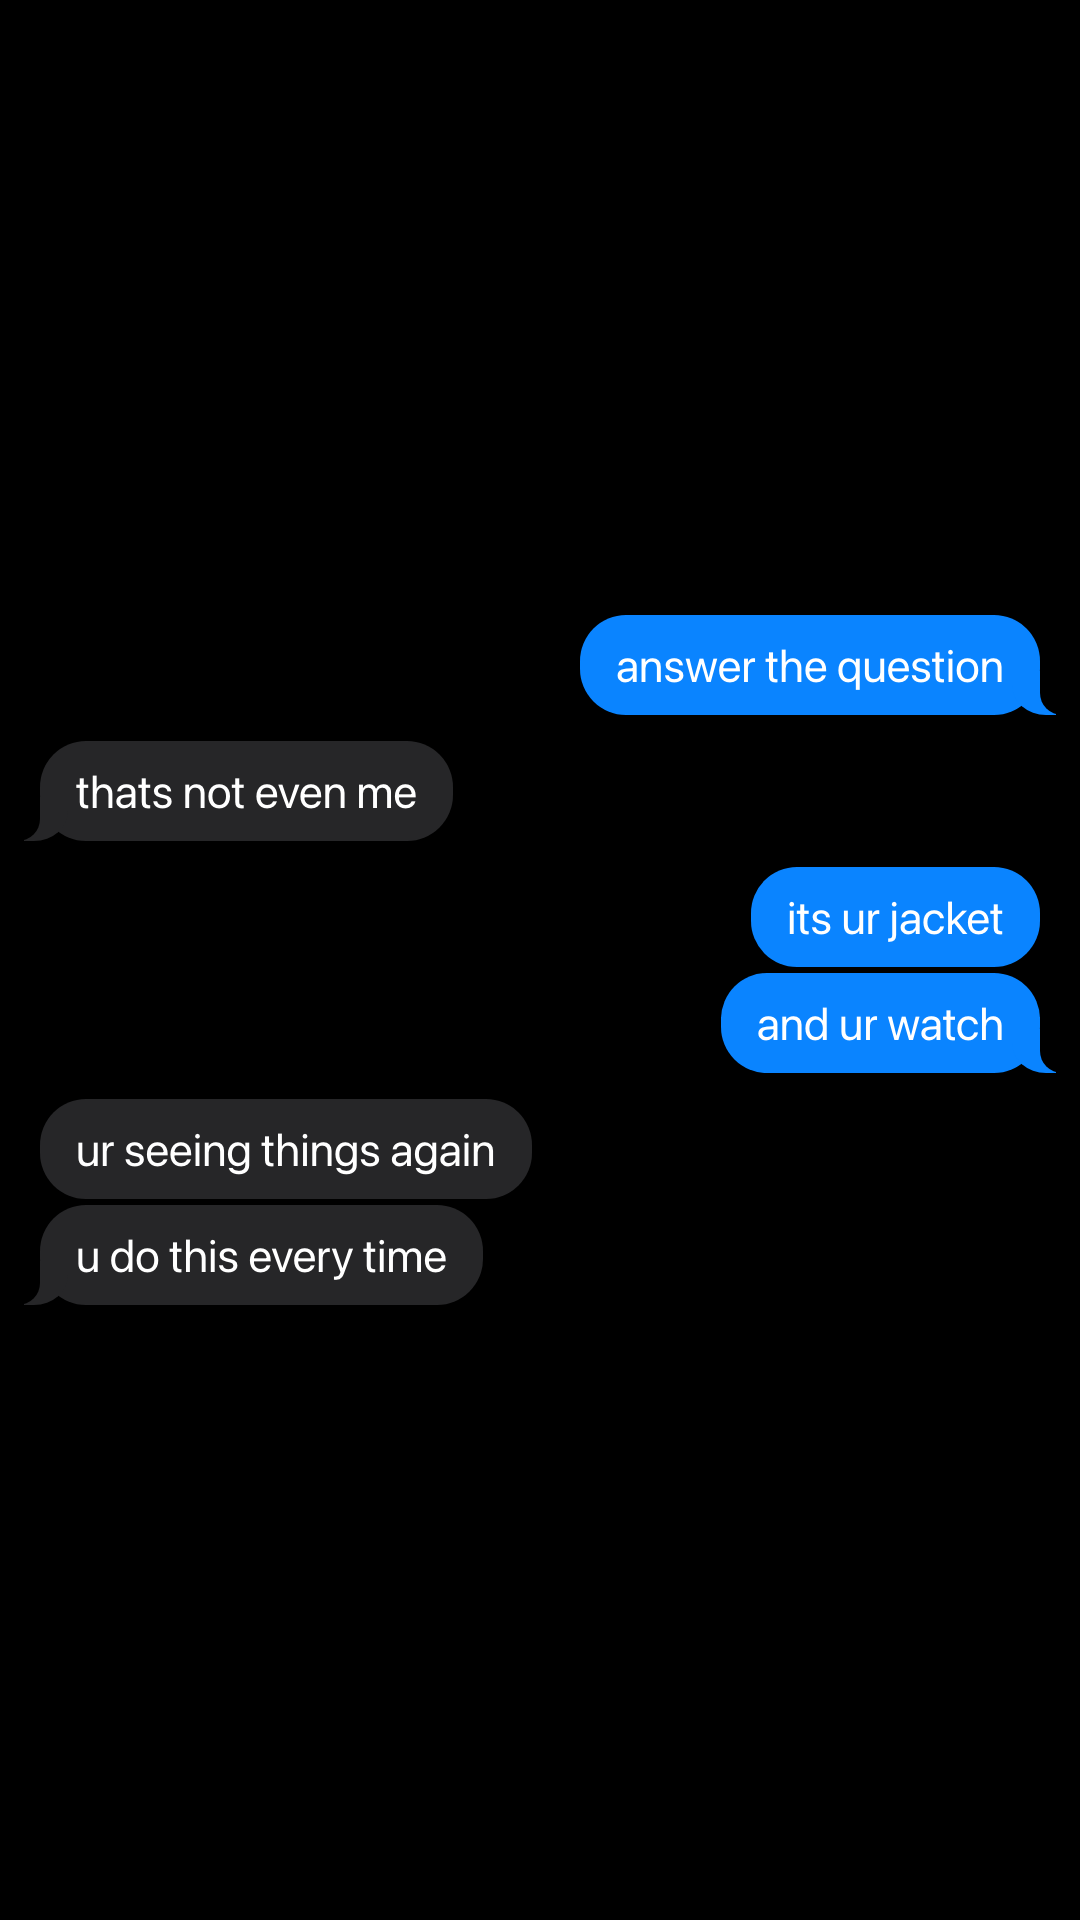
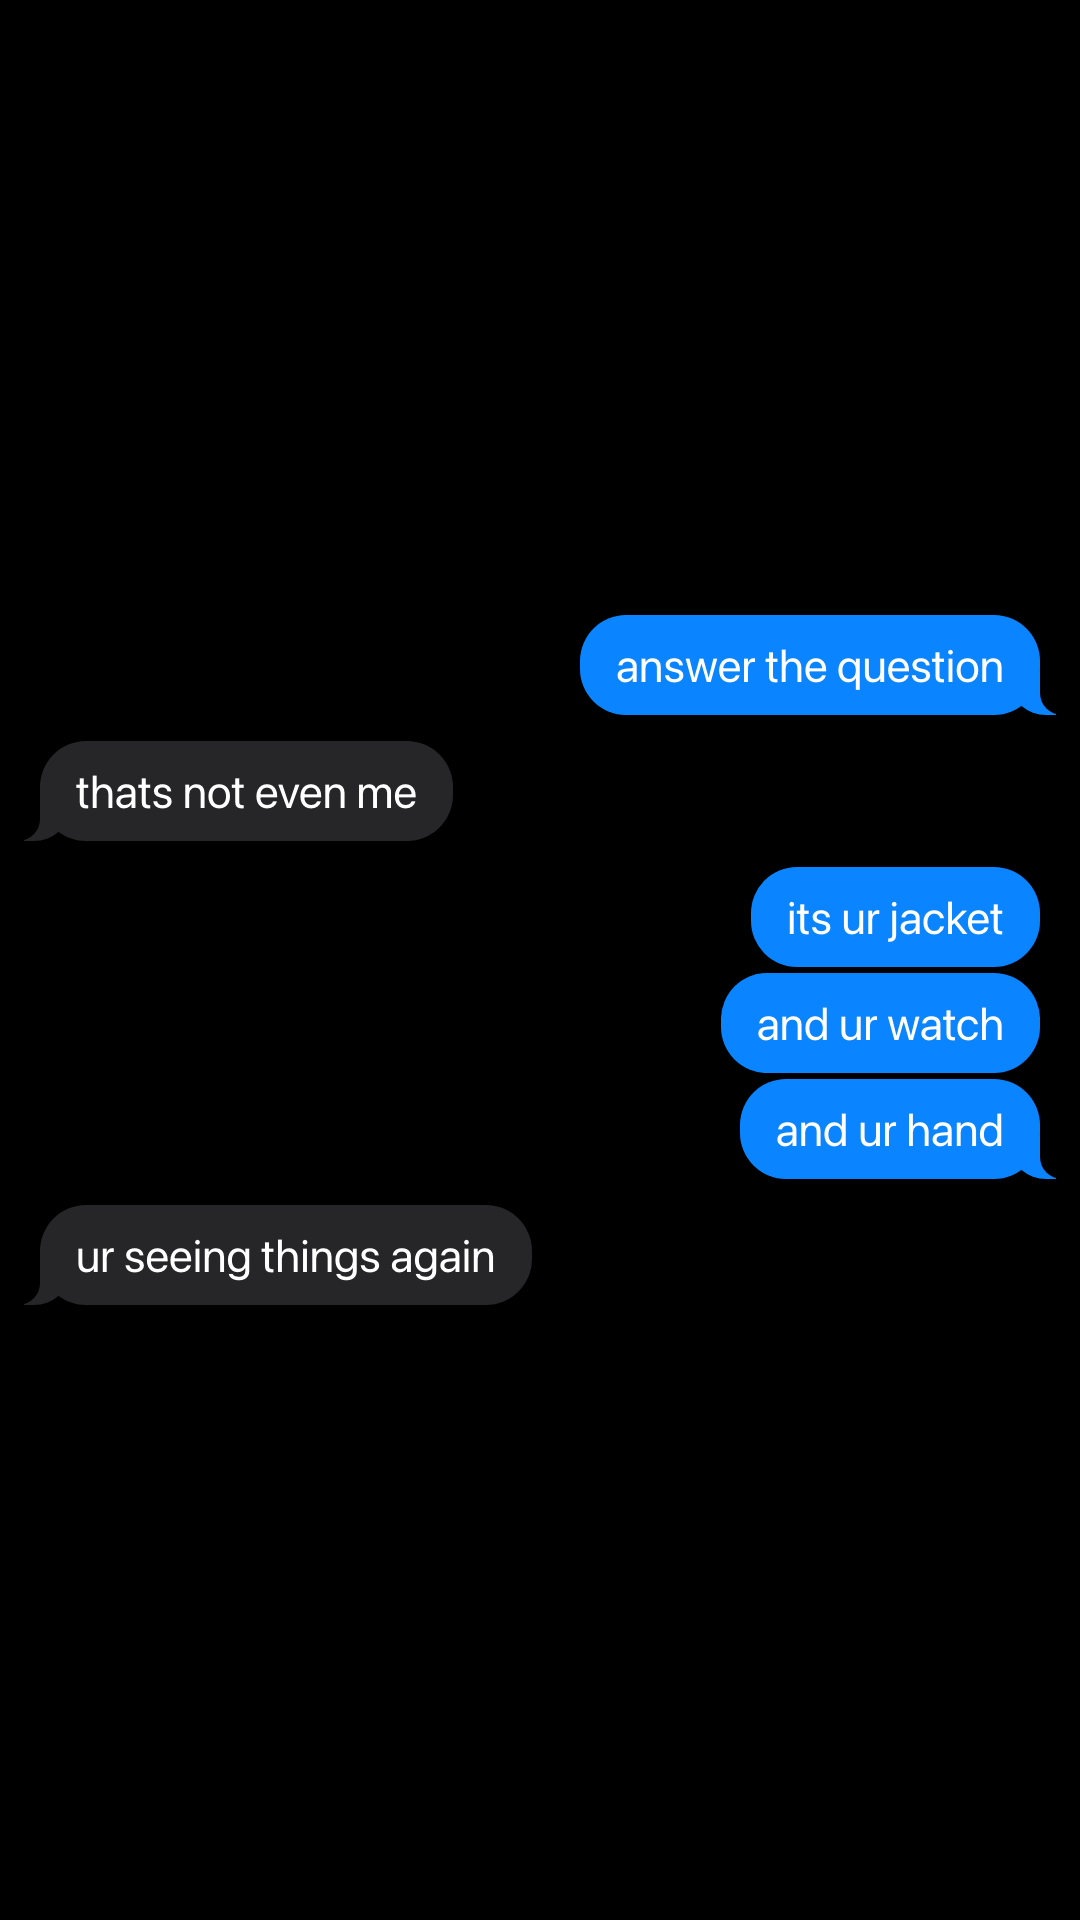
marketing: carousel 01 as 22 text screenshots
The whole story in iMessage: three lies, the blame flip, the isolation,
two days of silence, her apology hearted with no reply, the love bomb,
Lea's receipt, and her folding a second time.

Changed region(s): [[0.0306, 0.5625, 0.4889, 0.6875], [0.6722, 0.5312, 0.9778, 0.625]]

diff --git a/docs/marketing/tiktok-01/SCRIPT.md b/docs/marketing/tiktok-01/SCRIPT.md
@@ -42,40 +42,58 @@ the carousel. Do not add text over it. Let them find it.
 
 ## Slides
 
-Everything is rendered and sitting in this folder, all 1080×1920, ready to upload:
-`slide-01.png` to `slide-12.png` are the chat, `gift-01` to `gift-06` are the gift. The gift
-slides go between slide 10 and slide 11.
+All 22 chat screenshots are rendered: `slide-01.png` to `slide-22.png`, 1080×1920, iMessage
+dark mode. Your own gift screenshots go in one block between slide 16 and slide 17. That is
+the only gap.
 
-The gift itself is live at **tryethos.io/g/jayandmya** — open it on your phone if you would
-rather record it yourself, or to reshoot a slide. Its four photos are placeholders from the
-demo set; swap them for your own in the editor and re-shoot `gift-02` if you want them to
-look like a real couple's camera roll.
+Text you type over a slide in TikTok is in the third column. Empty means put nothing on it,
+the messages carry it. Never cover a bubble.
 
-| # | On screen | Text you type over it in TikTok |
+| # | On screen | Text over it |
 |---|---|---|
-| 1 | photo + "who is she" + "why were u on my phone" | `he never answered the question btw` |
-| 2 | "thats not even me" / "ur seeing things again" | |
-| 3 | "i never said that" + her screenshot of his text | `im literally holding the receipt` |
-| 4 | "this is exactly what u did in march" | |
-| 5 | "this is why ur ex left u" / "he cheated on me jay" / "did he tho" | |
-| 6 | "lea sent u that didnt she" / "shes the problem" | |
-| 7 | "i havent eaten since yesterday" / "im sorry" | `why am i apologising` |
-| 8 | "dont text me for a bit" + Delivered, Delivered | |
-| 9 | her apology, hearted, no reply | (nothing. leave it) |
-| 10 | "u up" / "made u smth" + the link card | |
-| G1 | `gift-01-jar` — closed jar, `JAY → MIA`, `12/12` | `he made me a whole website at 2am` |
-| G2 | `gift-02-note-photo` — a note with a photo taped to it | |
-| G3 | `gift-03-note-delete` — "id delete every girl off my phone for u" | `i sobbed` |
-| G4 | `gift-04-letter` — the letter typing itself out | |
-| G5 | `gift-05-surprise` — the whole letter, the S, and the P.S. | (nothing. this is the one they screenshot) |
-| G6 | `gift-06-end` — "The end. For now." · Made by Jay for Mia | |
-| 11 | "i love you so much" (hearted) / "k" / "so we good?" / "yea" | `we're okay now 🥹` |
-| 12 | Lea: "he sent me the exact same one" / "2 weeks ago" | |
+| 1 | the photo · "who is she" · "why were u on my phone" | `caught him and this is what he sent me 4 days later 😭` |
+| 2 | "thats not even me" / jacket / watch / "ur seeing things again" | |
+| 3 | "ok its me but its nothing" / "u literally just said it wasnt" | `lie 1` |
+| 4 | "i never said that" + her screenshot of his 9:41pm text | `im holding the receipt` |
+| 5 | "just some girl from work" / "u work in a warehouse w ur uncle" | `lie 2` |
+| 6 | "sofia" / "the tag says jess" / "thats her middle name" | `lie 3` |
+| 7 | "why is she in ur bed" / "thats my mums" / "yes mia. my mums." | |
+| 8 | "this is exactly what u did in march" / "see. this is u. not me." | |
+| 9 | "this is why ur ex left u" / "he cheated on me jay" / "did he tho" | |
+| 10 | "u cant keep anyone" / "im crying" / "and now ur the victim. classic." | |
+| 11 | "lea sent u that didnt she" / "shes the problem" | `he started on my best friend` |
+| 12 | "i havent eaten since yesterday" / "im sorry" | `why am i apologising` |
+| 13 | "dont text me for a bit" / "please dont do this" / Delivered | |
+| 14 | Tuesday. "can we talk" · "i know ur seeing these" · Delivered | `2 days of this` |
+| 15 | Wednesday 11:48pm. her apology. hearted. no reply. | (nothing. this is the one) |
+| 16 | Thursday 1:52am. "u up" / "made u smth" + the link | |
+| — | **your gift screenshots go here** | `he made me a whole website at 2am` on the first one |
+| 17 | 2:31am. "i love you so much" (hearted) / "k" / "so we good?" / "yea" | `we're okay now 🥹` |
+| 18 | her telling Lea, all caps, excited, Lea starts typing | |
+| 19 | Lea: "please dont hate me" · screenshot · "he sent me the exact same one" · "2 weeks ago" | |
+| 20 | "why does lea have the same link" / "shes lying" / "u believe her over me" | |
+| 21 | "after everything i made for u" / "at 2am mia" / "i know" / "im sorry" | `im apologising again` |
+| 22 | "come over" / "and stop talking to lea" / "ok" / "see u at 8" | |
 
-Slide 12 is a different thread, so it is grey on the left. If anyone asks in the comments,
-that is Lea, and yes, she waited two weeks. That is another fight in the replies, for free.
+Slide 15 is the trap. Three blue bubbles, a grey heart on "im sorry", Read 11:49 PM, no
+reply. Nothing happens on it, which is exactly why people stop.
 
-## The gift
+Slide 22 is the ending, and it is the reason this version works. She has the proof in her
+hand and she goes anyway, and the last thing she agrees to is dropping her best friend.
+Nobody scrolls past that without commenting.
+
+Slides 18 and 19 are her thread with Lea, so the grey bubbles are Lea, not Jay. If anyone
+asks in the comments, that is another argument you did not have to write.
+
+## The gift, which you shoot yourself
+
+Build it at tryethos.io with the values below, open it on your phone (Share → Add to Home
+Screen so there are no Safari bars) and shoot five: the closed jar, a note with a photo, the
+"id delete every girl off my phone" note, the letter typing, and the letter finished with
+the P.S. showing. There is a built copy at **tryethos.io/g/jayandmya** if you want to see
+what it should look like before you make your own.
+
+
 
 Everything in it is enormous and none of it is specific. That is what love bombing sounds
 like: volume instead of detail. He never mentions the photo, the girl, the gym, or the two
